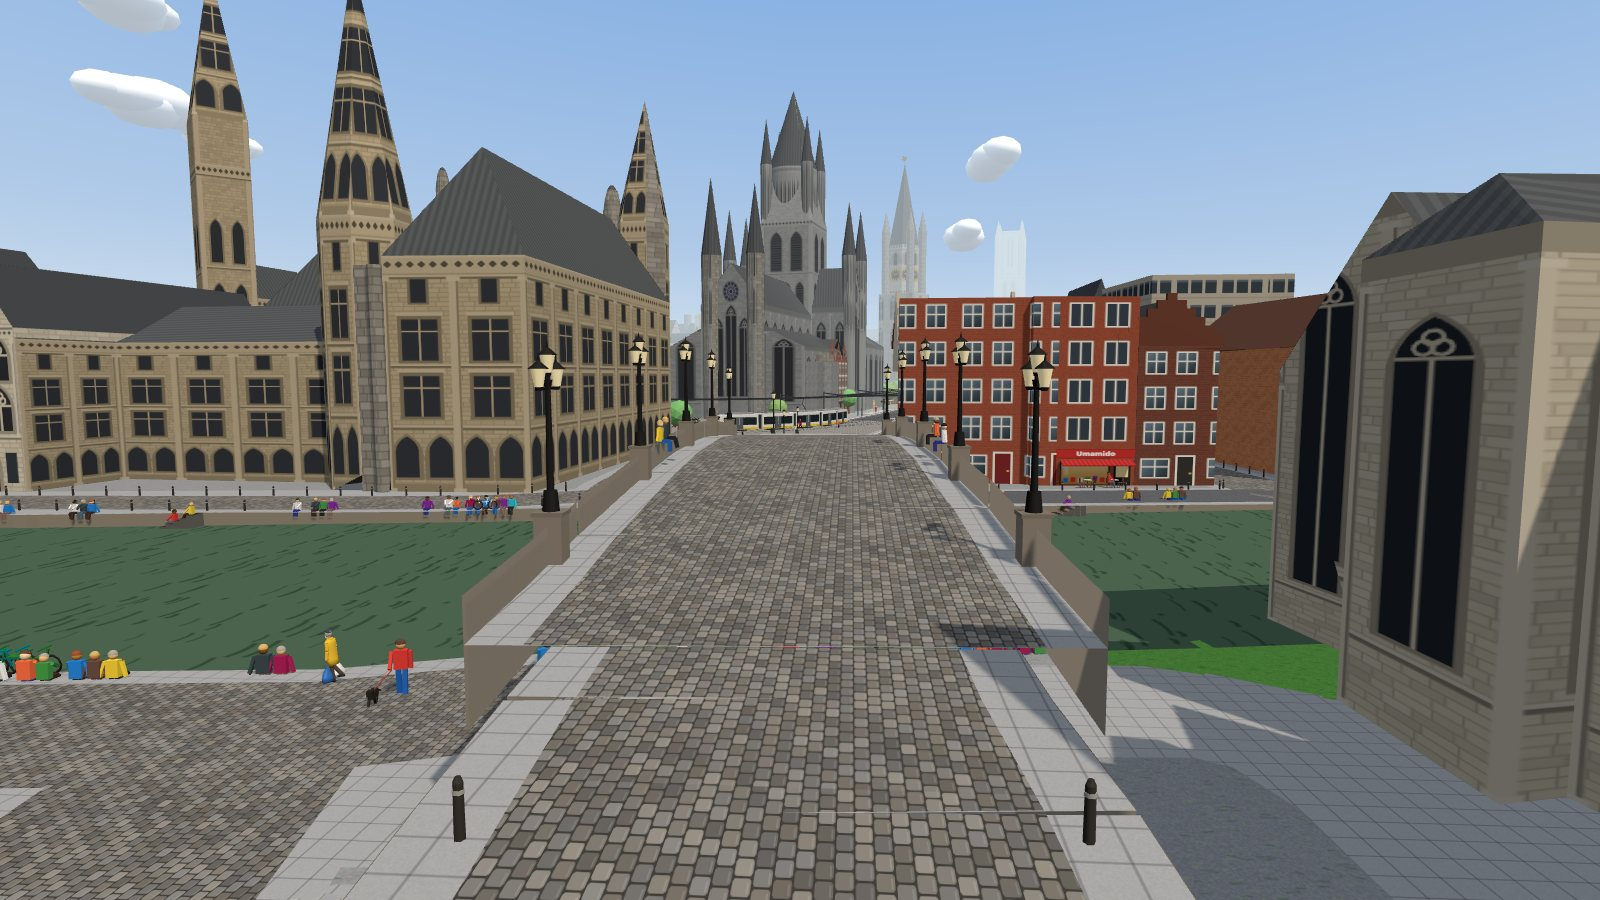
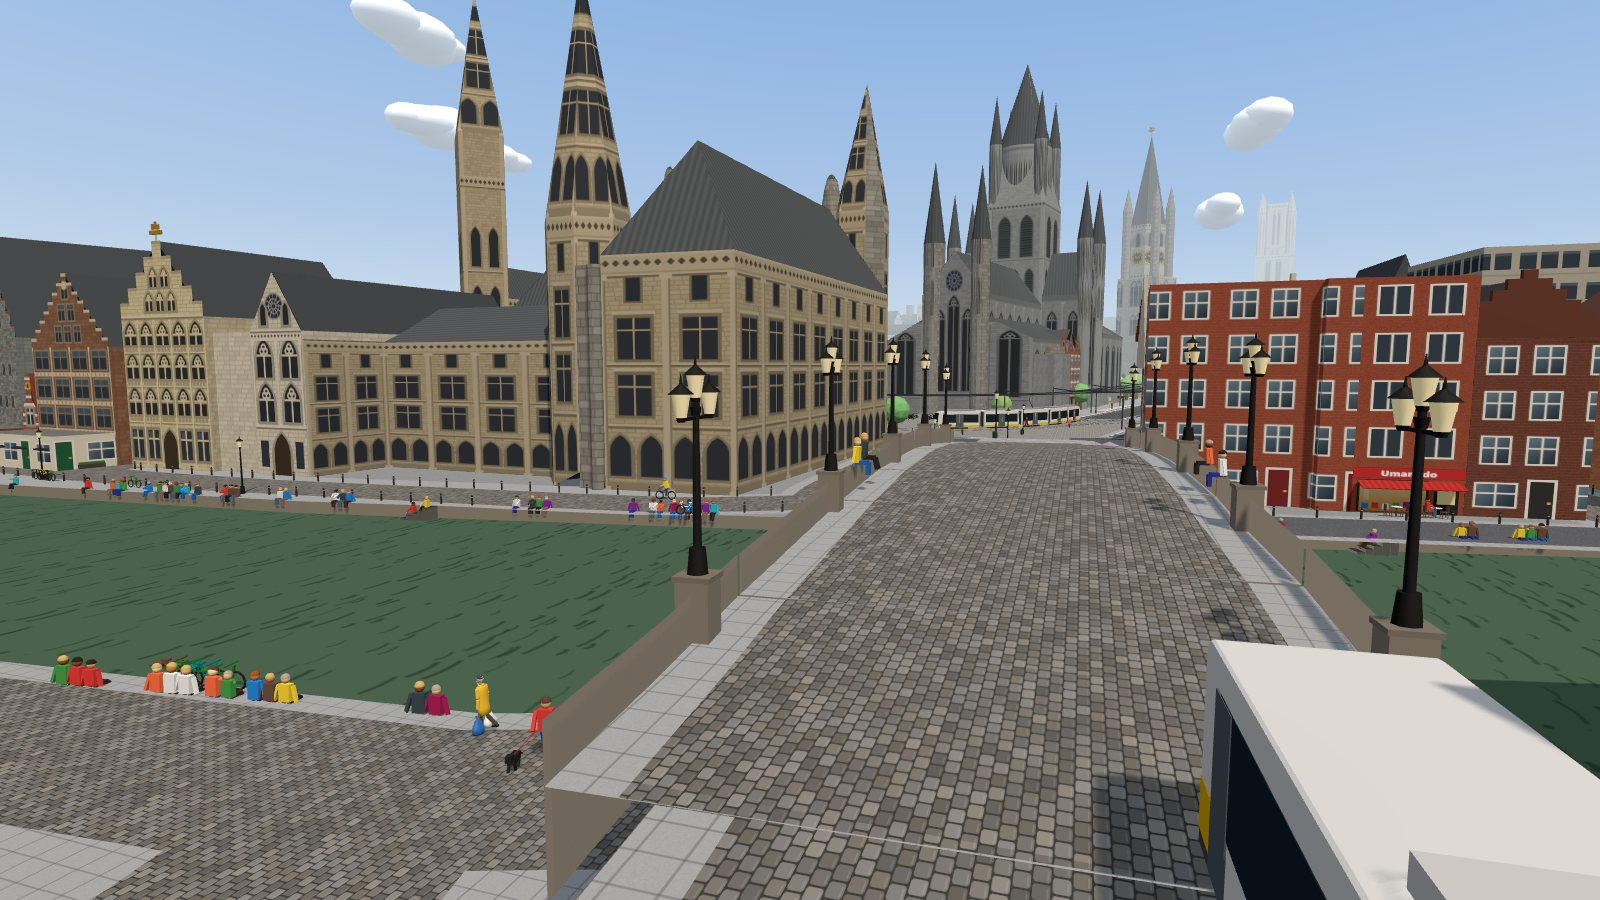
Start Ghent's tour a second further on, with the Graslei in view, and keep the bus beside it
The bus that drives along beside the camera stays in the first shot too: these are cities people
live in today. The home page's still is the new first shot.

diff --git a/core/js/tour.js b/core/js/tour.js
@@ -96,9 +96,8 @@ export class Tour {
       this.fallRun = { pace: 0.35, gone: 700, ...def.fall, cum, s: along(def.fall.at) };
     }
     this.fleet = def.boats ?? []; // more of them on the water, moored or sailing a line of their own
-    // bus: one that drives along beside the camera from the start, on a line of its own (not when the
-    // tour sets off further along, from: it would fill the first shot)
-    if (def.bus && !this.from) {
+    // bus: one that drives along beside the camera from the start, on a line of its own
+    if (def.bus) {
       const line = def.bus.line, cum = [0];
       for (let k = 1; k < line.length; k++) cum.push(cum[k - 1] + Math.hypot(line[k][0] - line[k - 1][0], line[k][1] - line[k - 1][1]));
       this.busRun = { ahead: 8, lane: 2, pace: 1, gone: 600, ...def.bus, cum };

diff --git a/ghent/tour.js b/ghent/tour.js
@@ -28,7 +28,7 @@
 import { FACTS } from './tourfacts.js';
 
 export const TOUR = {
-  from: [-330, -65], // on the Sint-Michielshelling: the bridge, the Leie by the Graslei and St Nicholas’ Church right ahead
+  from: [-323, -66], // on the Sint-Michielshelling: the Graslei, the Leie, the bridge and St Nicholas’ Church right ahead
   path: [
     [-425, -54, 5], [-395, -59], [-355, -63], [-318, -66, 9], [-292, -68, 12], [-262, -69, 10], [-245, -70],
     [-215, -70, 6], [-190, -71, 5], [-172, -70, 8], [-160, -67, 14], [-140, -63, 30], [-118, -58], [-93, -50],
